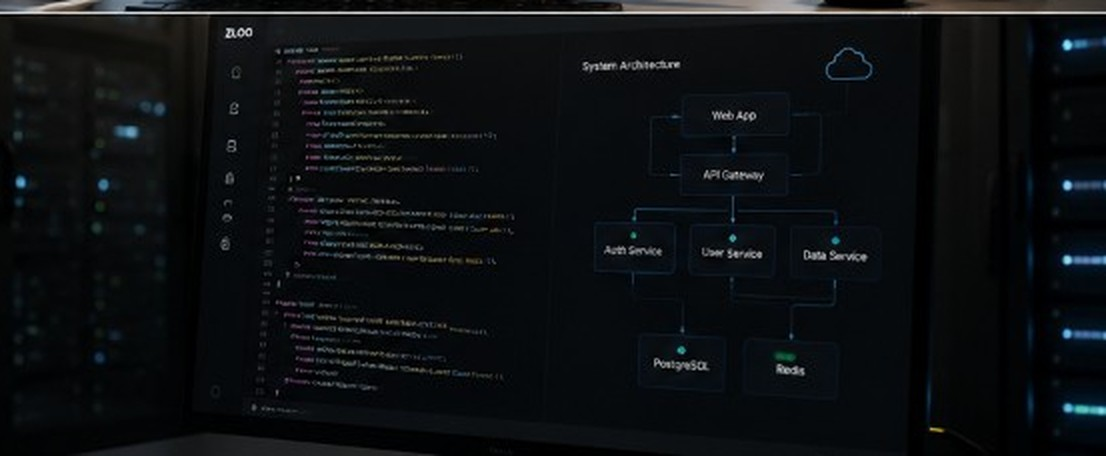
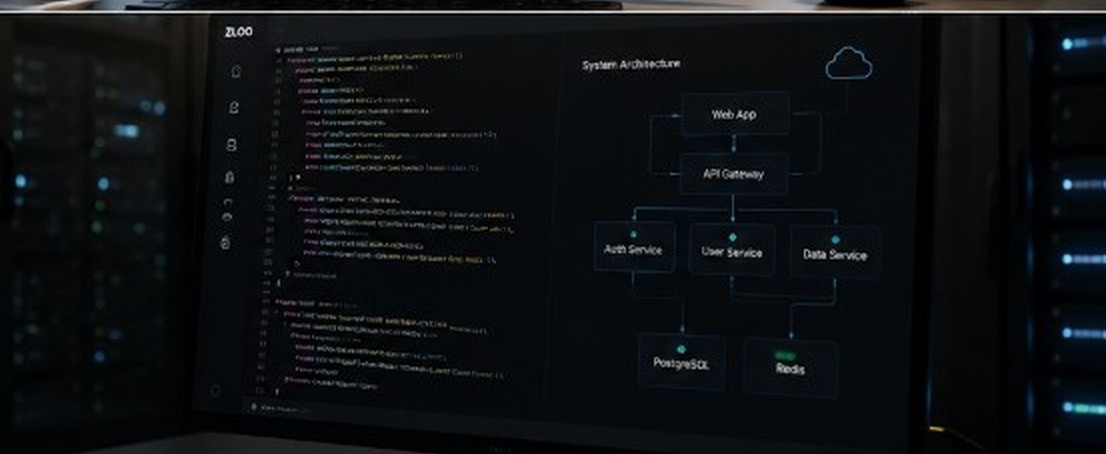
Update hero images and enhance HeroCarousel layout; improve text area consistency and responsiveness

diff --git a/src/components/pages/HeroCarousel.tsx b/src/components/pages/HeroCarousel.tsx
@@ -29,27 +29,31 @@ export function HeroCarousel() {
 
   return (
     <section className="relative overflow-hidden bg-[#0b0b0c] text-white">
-      <div className="mx-auto grid min-h-[32rem] w-full max-w-6xl items-center gap-10 px-5 py-16 sm:min-h-[36rem] sm:px-6 sm:py-20 lg:grid-cols-2 lg:gap-12 lg:px-8 lg:py-24">
-        <div className="relative z-10 max-w-xl">
-          <AnimatePresence mode="wait" initial={false}>
-            <motion.div
-              key={active.number}
-              initial={reducedMotion ? false : { opacity: 0, y: 12 }}
-              animate={{ opacity: 1, y: 0 }}
-              exit={reducedMotion ? undefined : { opacity: 0, y: -12 }}
-              transition={{ duration: 0.4, ease: [0.22, 1, 0.36, 1] }}
-            >
-              <p className="text-sm font-medium tracking-[0.2em] text-white/45">
-                {active.number}
-              </p>
-              <h1 className="mt-5 text-3xl font-semibold tracking-tight text-white sm:text-4xl lg:text-[2.75rem] lg:leading-[1.15] text-balance">
-                {active.headline}
-              </h1>
-              <p className="mt-5 text-base leading-relaxed text-white/65 sm:text-lg text-pretty">
-                {active.subheadline}
-              </p>
-            </motion.div>
-          </AnimatePresence>
+      <div className="mx-auto grid w-full max-w-6xl items-center gap-10 px-5 py-16 sm:px-6 sm:py-20 lg:grid-cols-2 lg:gap-12 lg:px-8 lg:py-24 lg:min-h-[40rem]">
+        <div className="relative z-10 flex max-w-xl flex-col">
+          {/* Fixed-height copy area so slide text length doesn't change layout */}
+          <div className="relative min-h-[14.5rem] sm:min-h-[16.5rem] lg:min-h-[18rem]">
+            <AnimatePresence mode="wait" initial={false}>
+              <motion.div
+                key={active.number}
+                className="absolute inset-0"
+                initial={reducedMotion ? false : { opacity: 0, y: 12 }}
+                animate={{ opacity: 1, y: 0 }}
+                exit={reducedMotion ? undefined : { opacity: 0, y: -12 }}
+                transition={{ duration: 0.4, ease: [0.22, 1, 0.36, 1] }}
+              >
+                <p className="text-sm font-medium tracking-[0.2em] text-white/45">
+                  {active.number}
+                </p>
+                <h1 className="mt-5 text-3xl font-semibold tracking-tight text-white sm:text-4xl lg:text-[2.75rem] lg:leading-[1.15] text-balance">
+                  {active.headline}
+                </h1>
+                <p className="mt-5 text-base leading-relaxed text-white/65 sm:text-lg text-pretty">
+                  {active.subheadline}
+                </p>
+              </motion.div>
+            </AnimatePresence>
+          </div>
 
           <div className="mt-8 flex flex-wrap gap-3">
             <Button href="/contact">Start a Project</Button>
@@ -67,7 +71,11 @@ export function HeroCarousel() {
             >
               <ChevronLeft className="h-4 w-4" />
             </button>
-            <div className="flex items-center gap-2" role="tablist" aria-label="Hero slides">
+            <div
+              className="flex items-center gap-2"
+              role="tablist"
+              aria-label="Hero slides"
+            >
               {heroSlides.map((slide, idx) => (
                 <button
                   key={slide.number}
@@ -96,7 +104,7 @@ export function HeroCarousel() {
           </div>
         </div>
 
-        <div className="relative h-64 overflow-hidden rounded-2xl sm:h-80 lg:h-[28rem]">
+        <div className="relative h-64 w-full overflow-hidden rounded-2xl sm:h-80 lg:h-[28rem]">
           <AnimatePresence mode="wait" initial={false}>
             <motion.div
               key={active.image}
